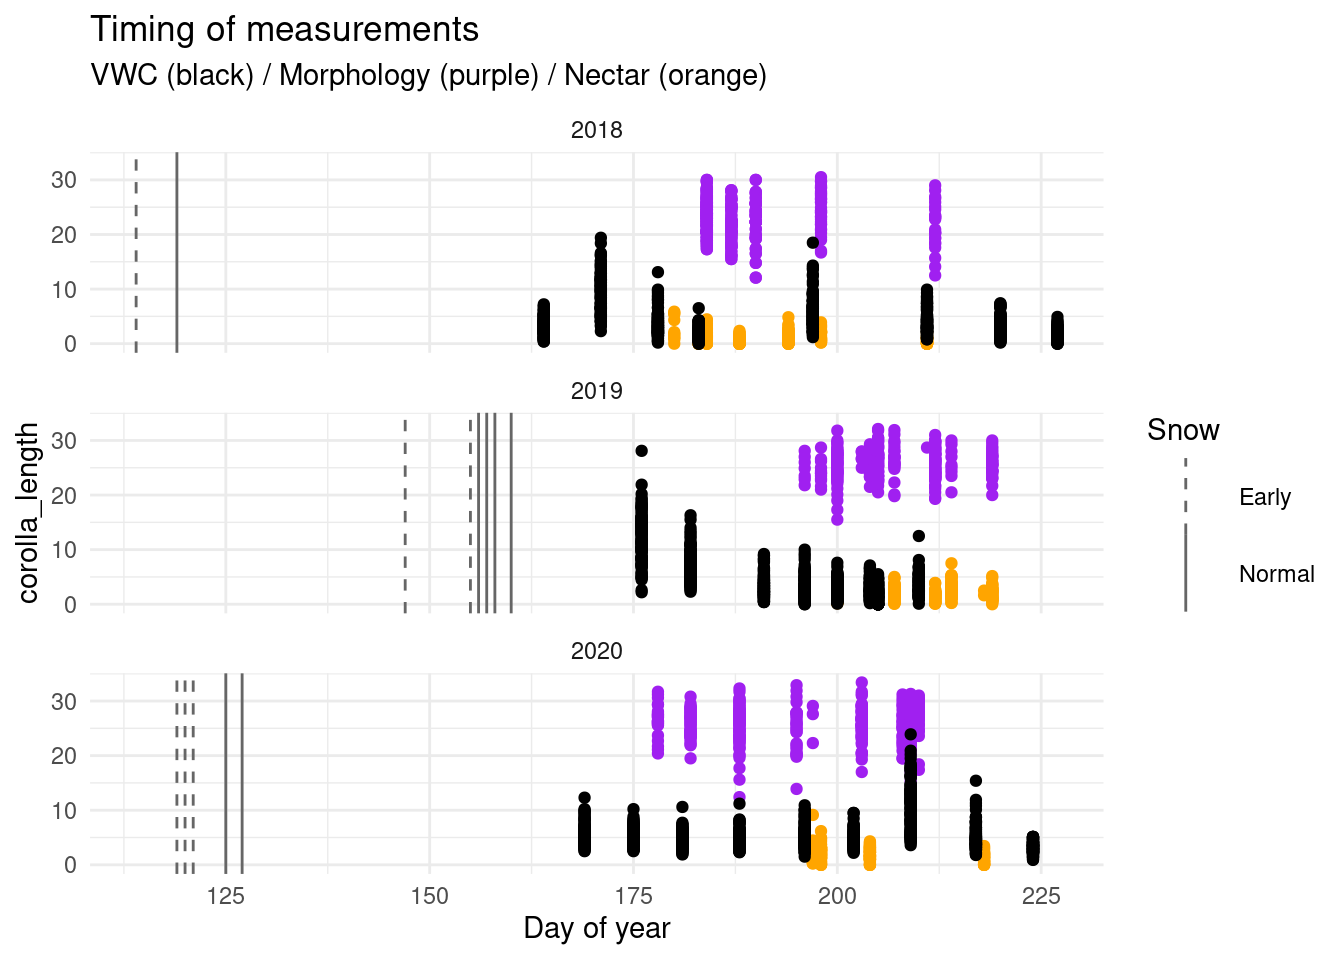
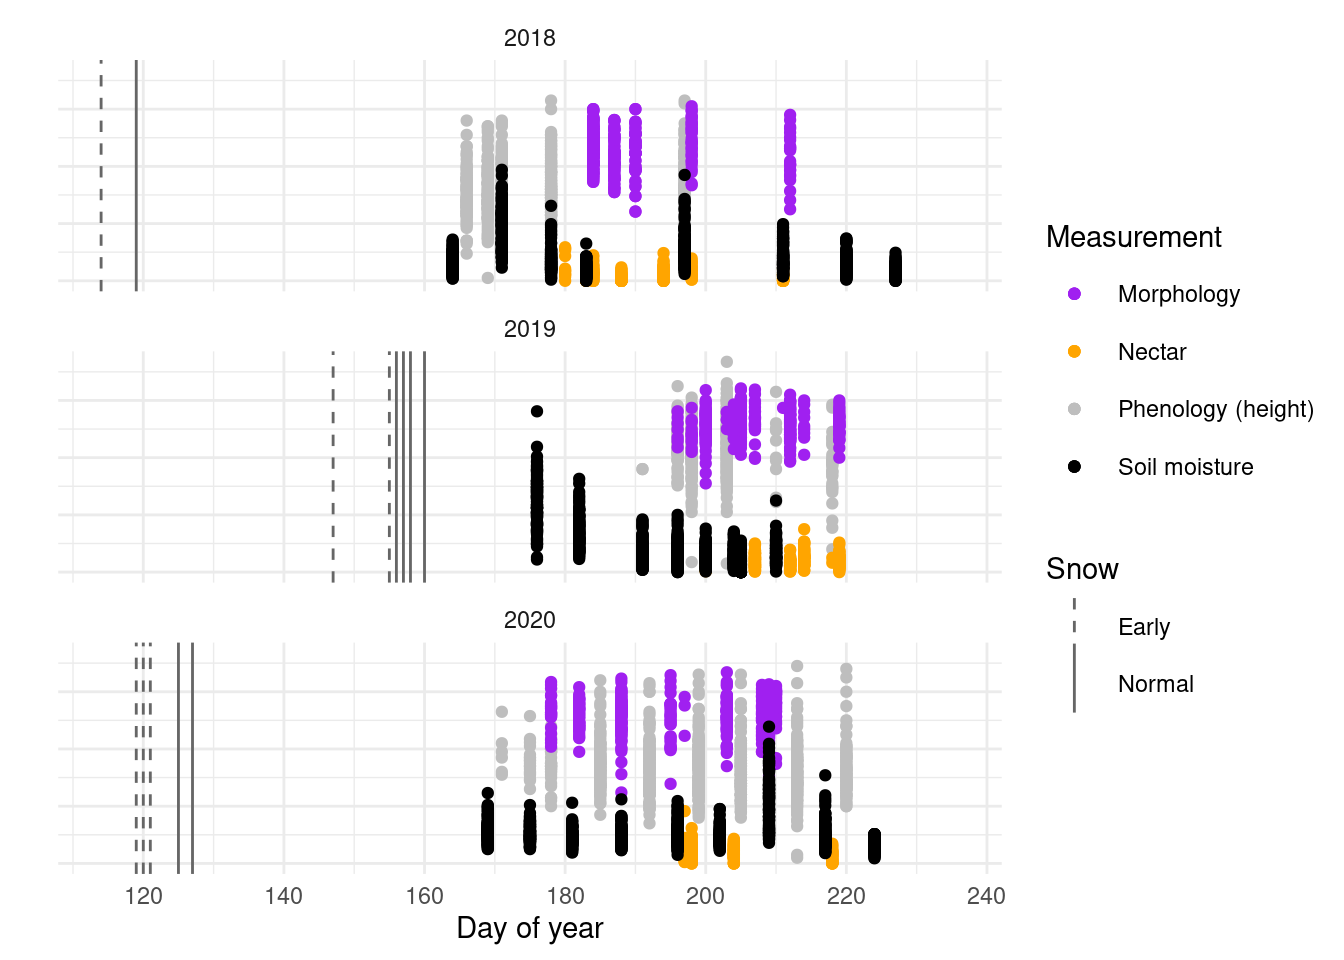
Check phenology datasets for completeness

diff --git a/maxfield_JP_analyses.html b/maxfield_JP_analyses.html
@@ -11,7 +11,7 @@
 
 <meta name="author" content="John Powers" />
 
-<meta name="date" content="2020-12-17" />
+<meta name="date" content="2021-01-04" />
 
 <title>Maxfield Meadow Ipomopsis Experiment</title>
 
@@ -279,7 +279,7 @@ div.tocify {
 
 <h1 class="title toc-ignore">Maxfield Meadow Ipomopsis Experiment</h1>
 <h4 class="author"><a href="http://sites.uci.edu/powers/">John Powers</a></h4>
-<h4 class="date">2020-12-17</h4>
+<h4 class="date">2021-01-04</h4>
 
 </div>
 
@@ -1790,8 +1790,8 @@ mt.mod.subplot.tests %&gt;% select(c(&quot;trait&quot;, &quot;term&quot;, &quot;
 </tbody>
 </table>
 </div>
-<div id="floral-plasticity-absolute-snowmelt-date" class="section level3">
-<h3>FLoral plasticity: absolute snowmelt date</h3>
+<div id="floral-plasticity-absolute-snowmelt-date-and-summed-summer-precip" class="section level3">
+<h3>FLoral plasticity: absolute snowmelt date and summed summer precip</h3>
 <pre class="r"><code>options(contrasts = c(&quot;contr.sum&quot;, &quot;contr.poly&quot;))
 
 mt.mod.raw &lt;- mt.mod.plantyr &lt;- mt.mod.subplot &lt;- mt.mod.subplot.test &lt;- mt.mod.plot &lt;- coef.melt.precip &lt;-emm.melt&lt;- emm.precip &lt;- list()
@@ -2374,14 +2374,16 @@ autoplot(capscale(scale(mt.morph.wm[,-(6:8)]) ~ year + melt_offset + water, data
 <p>No obvious effect of time within a season for corolla length/width or sepal width. The timing of trait measurements was different each year:</p>
 <pre class="r"><code>ggplot(sm, aes(x=yday(date))) + 
   facet_wrap(vars(year), ncol=1) +
-  #geom_vline(xintercept=175) + geom_vline(xintercept=183) +
-  geom_point(data=mt, aes(y= corolla_length), color=&quot;purple&quot;)+
-    geom_point(data=mt, aes(y= nectar_24_h_ul), color=&quot;orange&quot;)+
-  geom_point(aes(y = VWC), color=&quot;black&quot;) +
+  geom_point(data=ph, aes(y= height_cm/2, color=&quot;Phenology (height)&quot;))+
+  geom_point(data=mt, aes(y= corolla_length, color=&quot;Morphology&quot;))+
+  geom_point(data=mt, aes(y= nectar_24_h_ul, color=&quot;Nectar&quot;))+
+  geom_point(aes(y = VWC, color=&quot;Soil moisture&quot;)) +
   geom_vline(data=meltdates, aes(xintercept=sun_date, linetype=snow), color=&quot;grey40&quot;)+
-  labs(title=&quot;Timing of measurements&quot;, subtitle=&quot;VWC (black) / Morphology (purple) / Nectar (orange)&quot;, x=&quot;Day of year&quot;, shape=&quot;Snow&quot;, linetype=&quot;Snow&quot;)+
+  labs(x=&quot;Day of year&quot;, shape=&quot;Snow&quot;, linetype=&quot;Snow&quot;, y=&quot;&quot;, color=&quot;Measurement&quot;)+
+  scale_color_manual(values=c(&quot;purple&quot;,&quot;orange&quot;,&quot;grey&quot;,&quot;black&quot;))+
+  scale_x_continuous(breaks=seq(120, 240, by=20))+
   scale_linetype_manual(values=c(2,1)) + theme_minimal() + 
-  theme(legend.key.size = unit(2, &quot;lines&quot;))</code></pre>
+  theme(legend.key.size = unit(1.5, &quot;lines&quot;), axis.text.y=element_blank())</code></pre>
 <p><img src="images/morph_season-1.png" width="672" /></p>
 <pre class="r"><code>ggplot(data=mt, aes(x=yday(date), y= corolla_length, color=water)) + 
   facet_wrap(vars(year), ncol=1) +
@@ -2406,6 +2408,20 @@ autoplot(capscale(scale(mt.morph.wm[,-(6:8)]) ~ year + melt_offset + water, data
 </div>
 <div id="phenology" class="section level1">
 <h1>Phenology</h1>
+<pre class="r"><code>library(viridis)
+walk(list(ph18.raw, ph19.raw, ph20.raw), 
+     function(ph.raw) {
+  y = ph.raw$year[1]
+  p &lt;- ph.raw %&gt;% count(plot, subplot, plotid, plantid, julian) %&gt;% add_count(plantid, name=&quot;n_plantid&quot;) %&gt;% 
+  mutate(plantid = fct_reorder(plantid, as.integer(factor(paste(plotid, n_plantid))),.desc=T)) %&gt;% 
+  ggplot(aes(julian, plantid, fill=factor(n)))+
+  geom_tile()+ scale_fill_viridis(option=&quot;inferno&quot;, discrete=T) + 
+  geom_point(aes(color=subplot, x=median(as.integer(julian))))+ scale_color_manual(values=sample(rainbow(10)))+
+  geom_point(aes(color=plot, x=median(as.integer(julian))), position=position_nudge(x=-0.3))+ 
+  theme_classic() + theme(panel.background = element_rect(fill=&quot;grey&quot;)) + guides(x=guide_axis(angle = 90)) +
+  labs(x=&quot;Day of year&quot;, y=&quot;Plant (sorted by subplot)&quot;, fill=&quot;Observations&quot;, color=&quot;Plot&quot;, title=paste(y,&quot;phenology&quot;))
+  print(p)})</code></pre>
+<p><img src="images/check_phenology-1.png" width="672" /><img src="images/check_phenology-2.png" width="672" /><img src="images/check_phenology-3.png" width="672" /></p>
 <pre class="r"><code>ggplot(ph, aes(x=julian, y=height_cm, shape=snow, color=water))+ geom_point() + geom_path(aes(group=plantid))+
   facet_wrap(vars(year), ncol=1)+
     geom_vline(data=meltdates, aes(xintercept=sun_date, linetype=snow))+
@@ -2415,7 +2431,7 @@ autoplot(capscale(scale(mt.morph.wm[,-(6:8)]) ~ year + melt_offset + water, data
   scale_color_manual(values=water_pal) + theme_minimal() + 
   theme(legend.key.size = unit(2, &quot;lines&quot;))</code></pre>
 <p><img src="images/phenology-1.png" width="672" /></p>
-<pre class="r"><code>ph %&gt;% group_by(year, snow, water, julian) %&gt;% summarize_at(c(&quot;open&quot;,&quot;buds&quot;), mean) %&gt;% 
+<pre class="r"><code>ph %&gt;% group_by(year, snow, water, julian) %&gt;% summarize_at(c(&quot;open&quot;,&quot;buds&quot;), mean, na.rm=T) %&gt;% 
   ggplot(aes(x=julian, y=open, shape=snow, linetype=snow, color=water))+ geom_point() + 
   facet_wrap(vars(year), ncol=1)+
   geom_path(aes(group=paste(snow, water))) +
